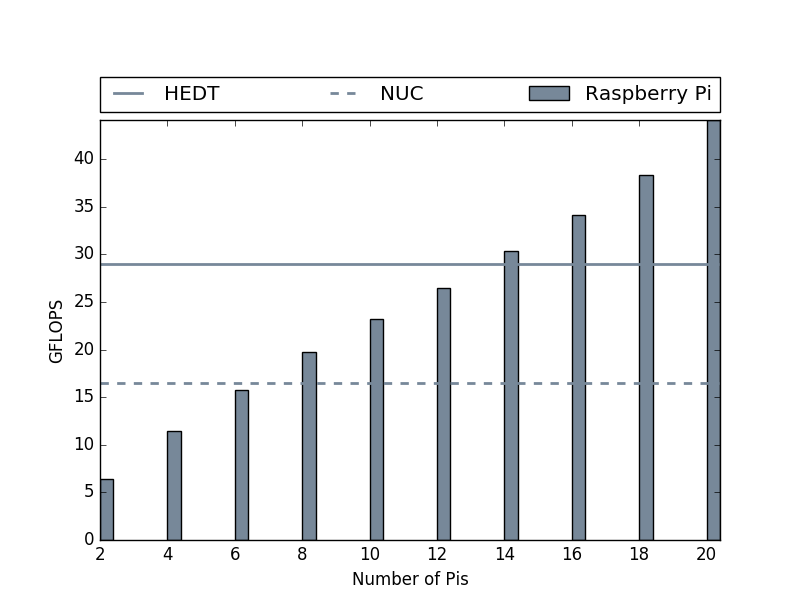
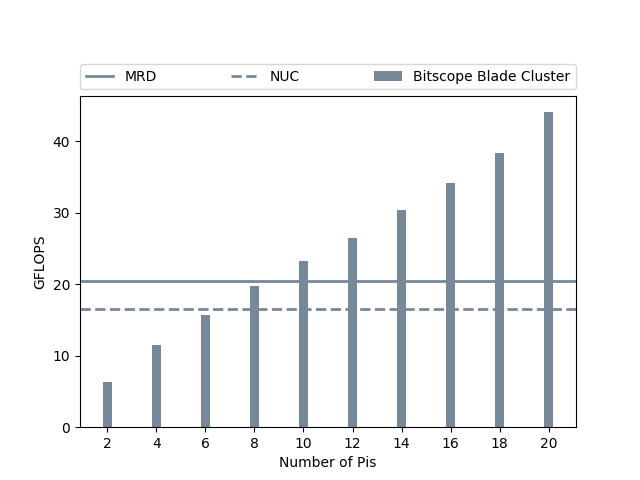
changed other plots

Changed region(s): [[0.0312, 0.125, 0.9062, 1.0], [0.0625, 0.25, 0.125, 0.375], [0.0938, 0.7188, 0.125, 0.75]]

diff --git a/plots/HPLplot.py b/plots/HPLplot.py
@@ -14,7 +14,7 @@ fig,ax = plt.subplots()
 
 ### HPL measurements
 nuc_hpl = 16.51
-hedt_hpl = 28.97
+MRD_hpl = 20.48
 pi_hpl = [6.38, 11.46, 15.72, 19.73, 23.26, 26.51, 30.4, 34.1, 38.3, 44.13]
 
 
@@ -29,8 +29,8 @@ bar_width=0.2
 cselect='lightslategray'
 
 ax.bar(x, pi_hpl, bar_width, color=cselect, label="Bitscope Blade Cluster")
-ax.bar(x+w, mini_cluster, bar_width, color=cselect2, label="Mini Cluster")
-plt.axhline(y=hedt_hpl, color=cselect, linestyle='-', label="HEDT", linewidth=2)
+#ax.bar(x+.2, mini_cluster, bar_width, color=cselect2, label="Mini Cluster")
+plt.axhline(y=MRD_hpl, color=cselect, linestyle='-', label="MRD", linewidth=2)
 plt.axhline(y=nuc_hpl, color=cselect, linestyle='--', label="NUC", linewidth=2)
 
 ax.set_xticks(x)

diff --git a/plots/powerPlot.py b/plots/powerPlot.py
@@ -14,7 +14,7 @@ fig,ax = plt.subplots()
 
 ### Power measurements (peak only, in Watts)
 nuc_power = 42
-hedt_power = 129
+MRD_power = 73.5
 pi_power = [40, 51, 62, 72, 85, 96, 110, 125, 139,149]
 
 #updated pi_power to include switch
@@ -36,7 +36,7 @@ cselect='lightslategray'
 
 ax.bar(x, pi_power, bar_width, color=cselect, label="BitScope Blade Cluster")
 ax.bar(x+bar_width, mini_cluster, bar_width, color='limegreen', label="Green cluster")
-plt.axhline(y=hedt_power, color=cselect, linestyle='-', label="HEDT", linewidth=2)
+plt.axhline(y=MRD_power, color=cselect, linestyle='-', label="MRD", linewidth=2)
 plt.axhline(y=nuc_power, color=cselect, linestyle='--', label="NUC", linewidth=2)
 
 ax.set_xticks(x)
